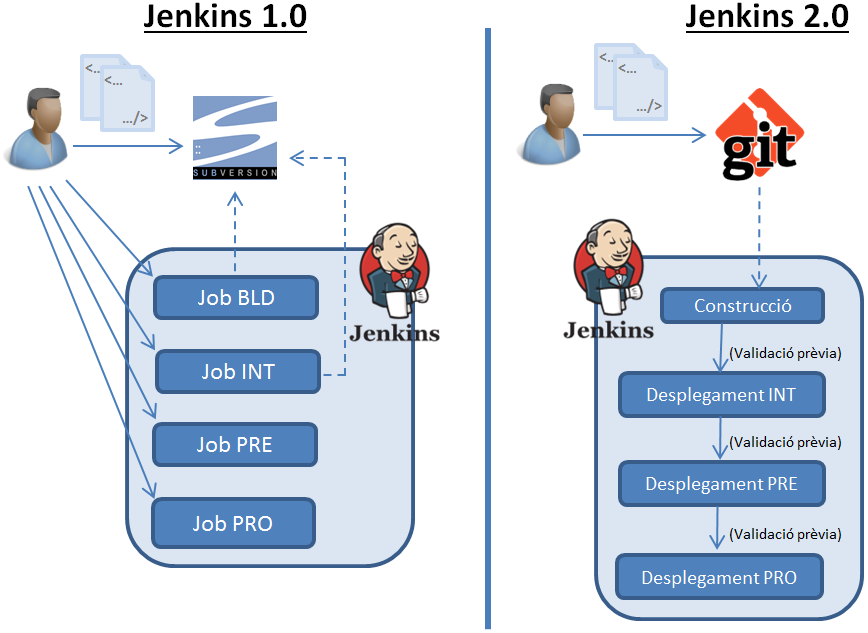
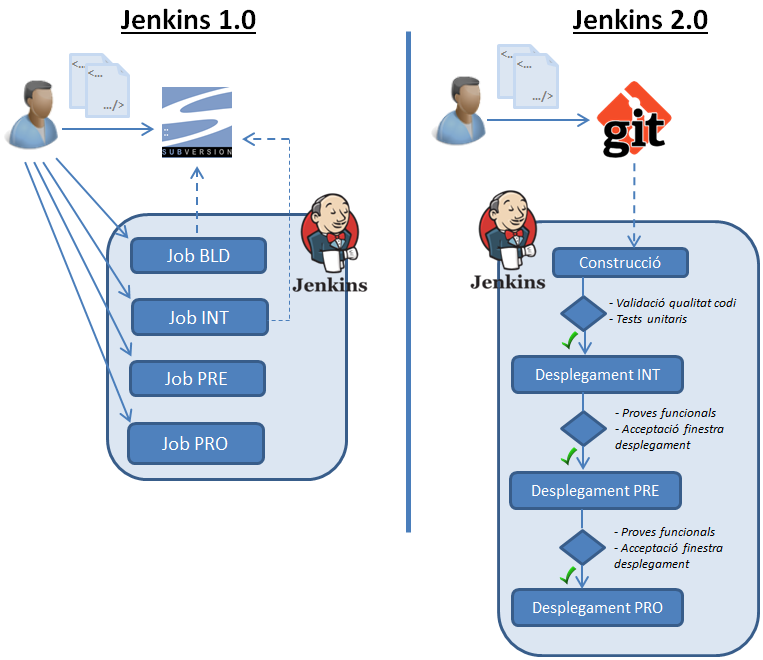
new version

diff --git a/content/noticies/2017-03-07-Pipelines-SIC2.0.md b/content/noticies/2017-03-07-Pipelines-SIC2.0.md
@@ -18,9 +18,10 @@ Fins el moment, es contempla el següent escenari:
 
 La versió actual de Jenkins, la 2.7.4, incorpora un nou tipus de job, el de Pipeline. Aquest tipus de jobs faciliten la inclusió del cicle complet d'Integració Contínua en un únic Job. S'està treballant en l'adaptació a aquest model de treball. Les característiques d'aquest seran:
 
-- El fluxe s'inicia a partir de la pujada de codi (estable) al GitLab . Un hook configurat al GitLab farà de llançadora del job Pipeline de l'aplicació.
-- El job descarrega la darrera versió de codi font i construirà el/s binaris.
-- El job desplegarà de manera manual/automàtica als entorns INT, PRE i PRO, de manera seqüencial i prèvia validació manual/automàtica del desplegament a l'entorn anterior.
+- El job ja no serà executat directament pel desenvolupador sinó que s'iniciarà automàticament en fer la pujada de codi al GitLab (un hook configurat al GitLab farà de llançadora).
+- El job descarregarà la darrera versió de codi font i construirà el/s binaris. Per a considerar el codi com a vàlid, s'efectuaran validacions de qualitat i test automàtics.
+- Prèviament al desplegament automàtic a entorns PRE i PRO, el job Pipeline contemplarà l'autorització per part dels responsables i validarà que el desplegament s'efectua dins la finestra d'execució de l'aplicació.
+- El flux del job Pipeline podrà ser aturat també de manera manual en cas de considerar una versió com a no apta per a desplegar.
 
 
 A continuació es mostra un esquema simplificat del funcionament del nou tipus de Job Pipeline en contrapartida al sistema actual de jobs.
